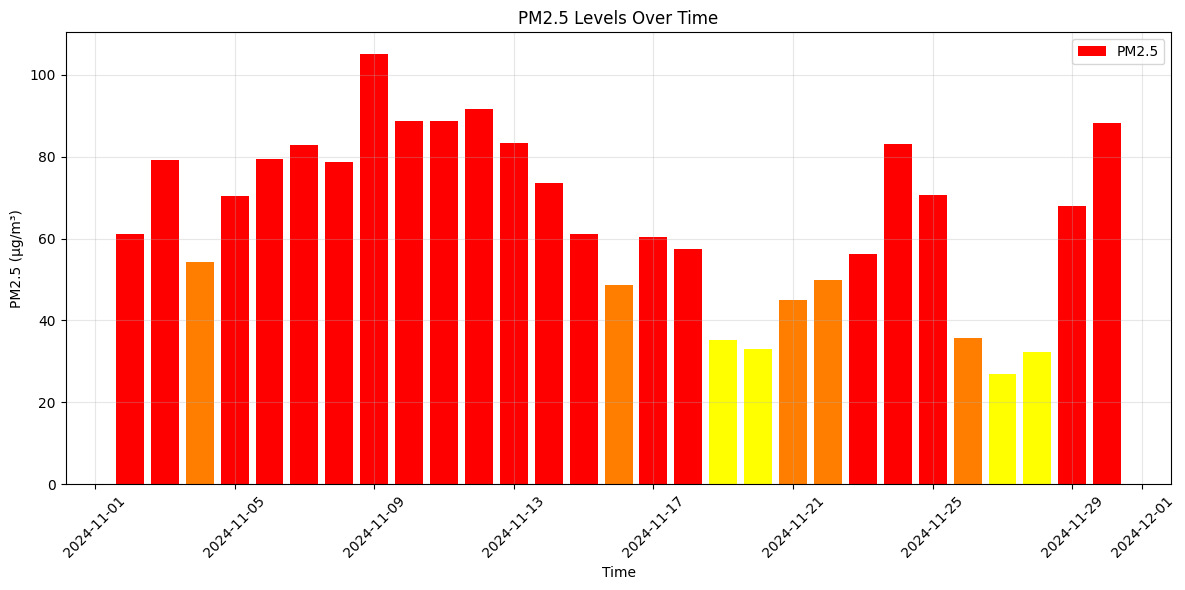
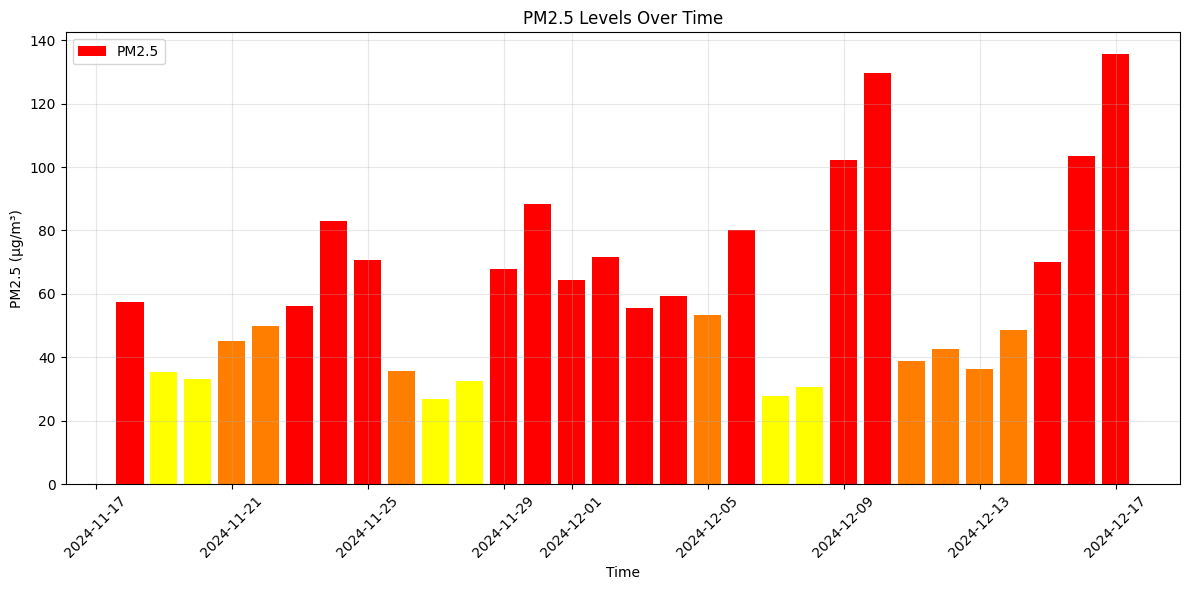
Sensor page

diff --git a/Frontend/src/app/(dashboard)/3dmodel/sensors/edit/page.tsx b/Frontend/src/app/(dashboard)/3dmodel/sensors/edit/page.tsx
@@ -11,9 +11,11 @@ const EditSensorPlan = () => {
   const [sensors, setSensors] = useState<{ id: number; name: string; position: [number, number, number] }[]>([]);
   const [numSensors, setNumSensors] = useState<number>(0);
   const [renamingSensor, setRenamingSensor] = useState<number | null>(null);
-  const [placingSensor, setPlacingSensor] = useState<number | null>(null); // Track which sensor to place
-  const [sensorCursorPos, setSensorCursorPos] = useState<[number, number, number] | null>(null); // Track sensor cursor position
+  const [placingSensor, setPlacingSensor] = useState<number | null>(null);
+  const [sensorCursorPos, setSensorCursorPos] = useState<[number, number, number] | null>(null);
   const [cameraPosition] = useState([5, 5, 5]);
+  const [plans, setPlans] = useState<{ name: string; model: string }[]>([]); // State for plans
+  const [selectedPlan, setSelectedPlan] = useState<string>(""); // State for selected plan
 
   useEffect(() => {
     const fetchModels = async () => {
@@ -28,6 +30,20 @@ const EditSensorPlan = () => {
     };
 
     fetchModels();
+  }, []);
+
+  // Fetch created plans from the sensors page
+  useEffect(() => {
+    const fetchPlans = async () => {
+      try {
+        const response = await axios.get("http://localhost:5000/plans"); // Adjust the endpoint as necessary
+        setPlans(response.data.plans || []); // Assuming the response has a 'plans' array
+      } catch (error) {
+        console.error("Error fetching plans:", error);
+      }
+    };
+
+    fetchPlans();
   }, []);
 
   useEffect(() => {
@@ -120,6 +136,22 @@ const EditSensorPlan = () => {
 
   return (
     <div className="relative bg-gradient-to-b from-gray-900 to-gray-200">
+      {/* Dropdown for selecting plans */}
+      <div className="absolute top-4 left-4 z-10">
+        <select
+          value={selectedPlan}
+          onChange={(e) => setSelectedPlan(e.target.value)}
+          className="bg-white border border-gray-300 rounded-md py-2 px-4 shadow-sm focus:outline-none focus:ring-2 focus:ring-blue-500 focus:border-blue-500"
+        >
+          <option value="">Select a Plan</option>
+          {plans.map((plan) => (
+            <option key={plan.name} value={plan.name}>
+              {plan.name}
+            </option>
+          ))}
+        </select>
+      </div>
+
       <div className="absolute top-4 right-4 z-50 p-4 bg-white rounded shadow-lg w-64">
         <h2 className="text-lg font-bold mb-4">Edit Plan</h2>
         <label className="block mb-2">

diff --git a/Frontend/src/app/(dashboard)/3dmodel/display/page.tsx b/Frontend/src/app/(dashboard)/3dmodel/display/page.tsx
@@ -88,25 +88,6 @@ const RoomVisualizationPage = () => {
     return (
       <>
         <primitive object={gltf.scene} scale={1} />
-        {/* Example sensors */}
-        <mesh position={[1, 1, 0]}>
-          <sphereGeometry args={[0.1, 32, 32]} />
-          <meshStandardMaterial color="red" />
-          <Html distanceFactor={10}>
-            <div className="p-1 bg-gray-800 text-white text-xs rounded">
-              Sensor 1
-            </div>
-          </Html>
-        </mesh>
-        <mesh position={[-1, 1, 0]}>
-          <sphereGeometry args={[0.1, 32, 32]} />
-          <meshStandardMaterial color="blue" />
-          <Html distanceFactor={10}>
-            <div className="p-1 bg-gray-800 text-white text-xs rounded">
-              Sensor 2
-            </div>
-          </Html>
-        </mesh>
       </>
     );
   };
